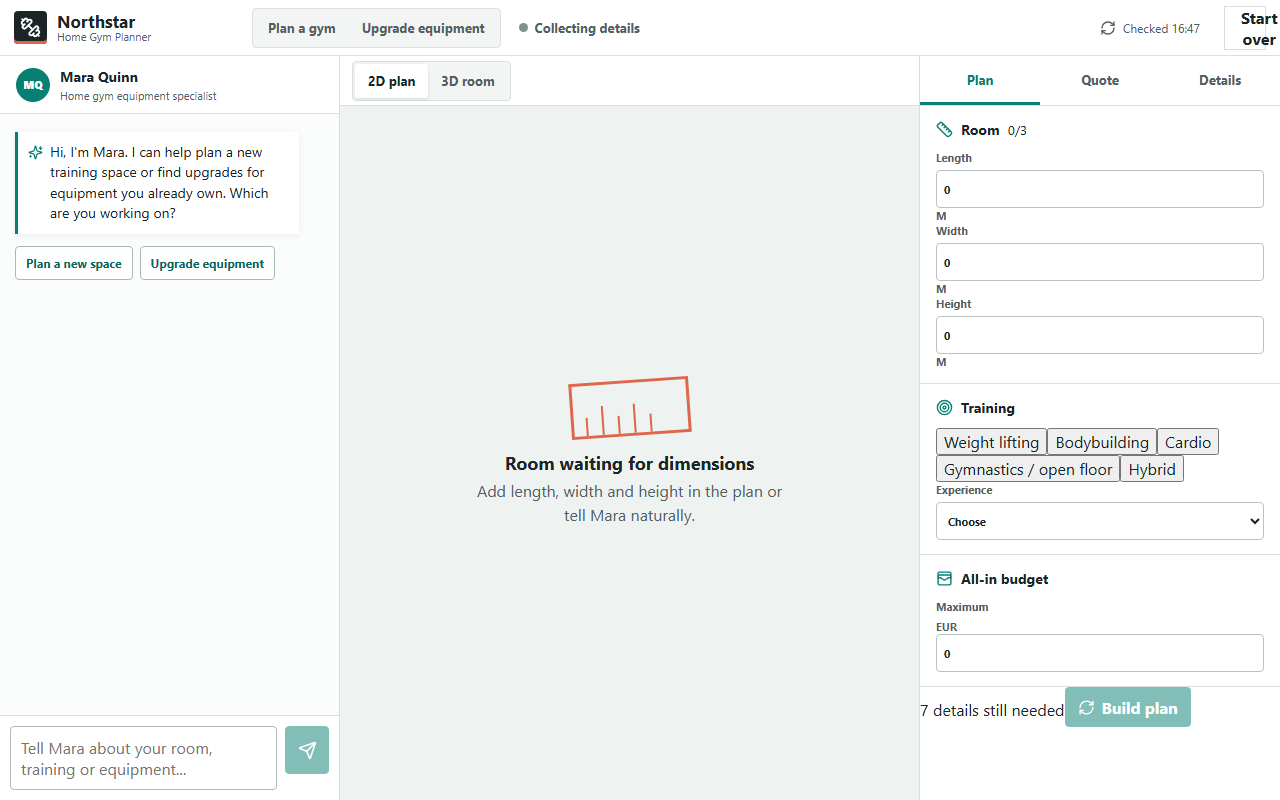
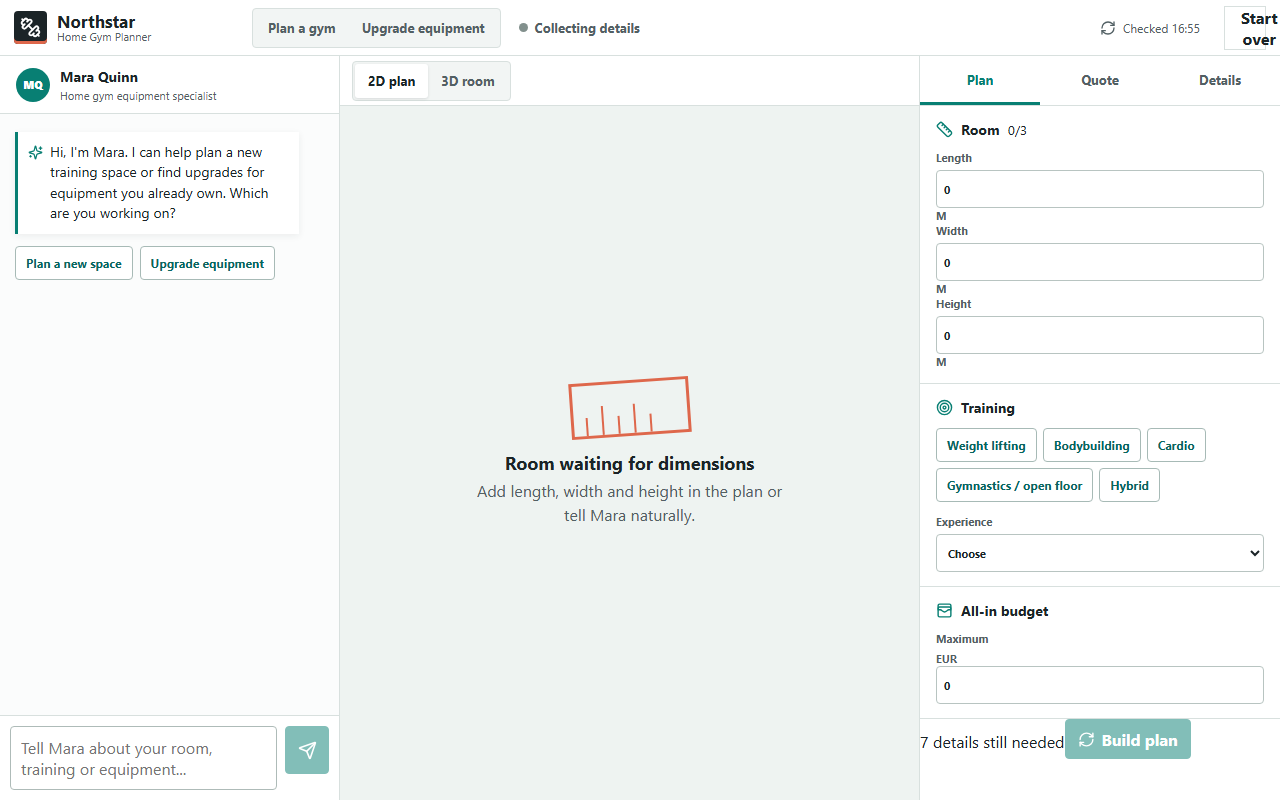
Restore planner choice button styling

Changed region(s): [[0.7188, 0.5312, 0.9688, 0.9688], [0.9688, 0.6875, 1.0, 0.7188]]

diff --git a/v2-founder-led/app/src/styles.css b/v2-founder-led/app/src/styles.css
@@ -66,6 +66,11 @@ button:focus-visible, input:focus-visible, select:focus-visible, textarea:focus-
 .equipment-owned.attention { background: #eef9f6; box-shadow: inset 4px 0 0 var(--teal); }
 .control-prompt { display: flex; align-items: center; gap: 6px; color: var(--teal-dark); font-size: 11px; font-weight: 800; margin: 0 0 10px; }
 .section-help, .equipment-list-hint { color: var(--muted); font-size: 11px; line-height: 1.4; margin: 0 0 9px; }
+.choice-grid { display: flex; flex-wrap: wrap; gap: 6px; margin-bottom: 12px; }
+.choice-grid button { min-height: 34px; border: 1px solid #a7bab6; border-radius: 4px; background: #fff; color: var(--teal-dark); padding: 6px 10px; cursor: pointer; font: inherit; font-size: 12px; font-weight: 700; line-height: 1.2; }
+.choice-grid button:hover:not(:disabled) { border-color: var(--teal); background: #e6f3f1; }
+.choice-grid button.active { border-color: var(--teal); background: var(--teal); color: #fff; box-shadow: inset 0 -2px var(--teal-dark); }
+.choice-grid button:disabled { cursor: not-allowed; opacity: .52; }
 .upgrade-choices button { min-height: 34px; }
 .plan-rationale { display: grid; grid-template-columns: 20px 1fr; gap: 8px; padding: 11px 14px; background: #f4f8f7; border-bottom: 1px solid var(--line); color: var(--teal-dark); }
 .plan-rationale span, .plan-rationale small { display: block; }.plan-rationale small { margin-top: 4px; color: var(--muted); line-height: 1.4; }
